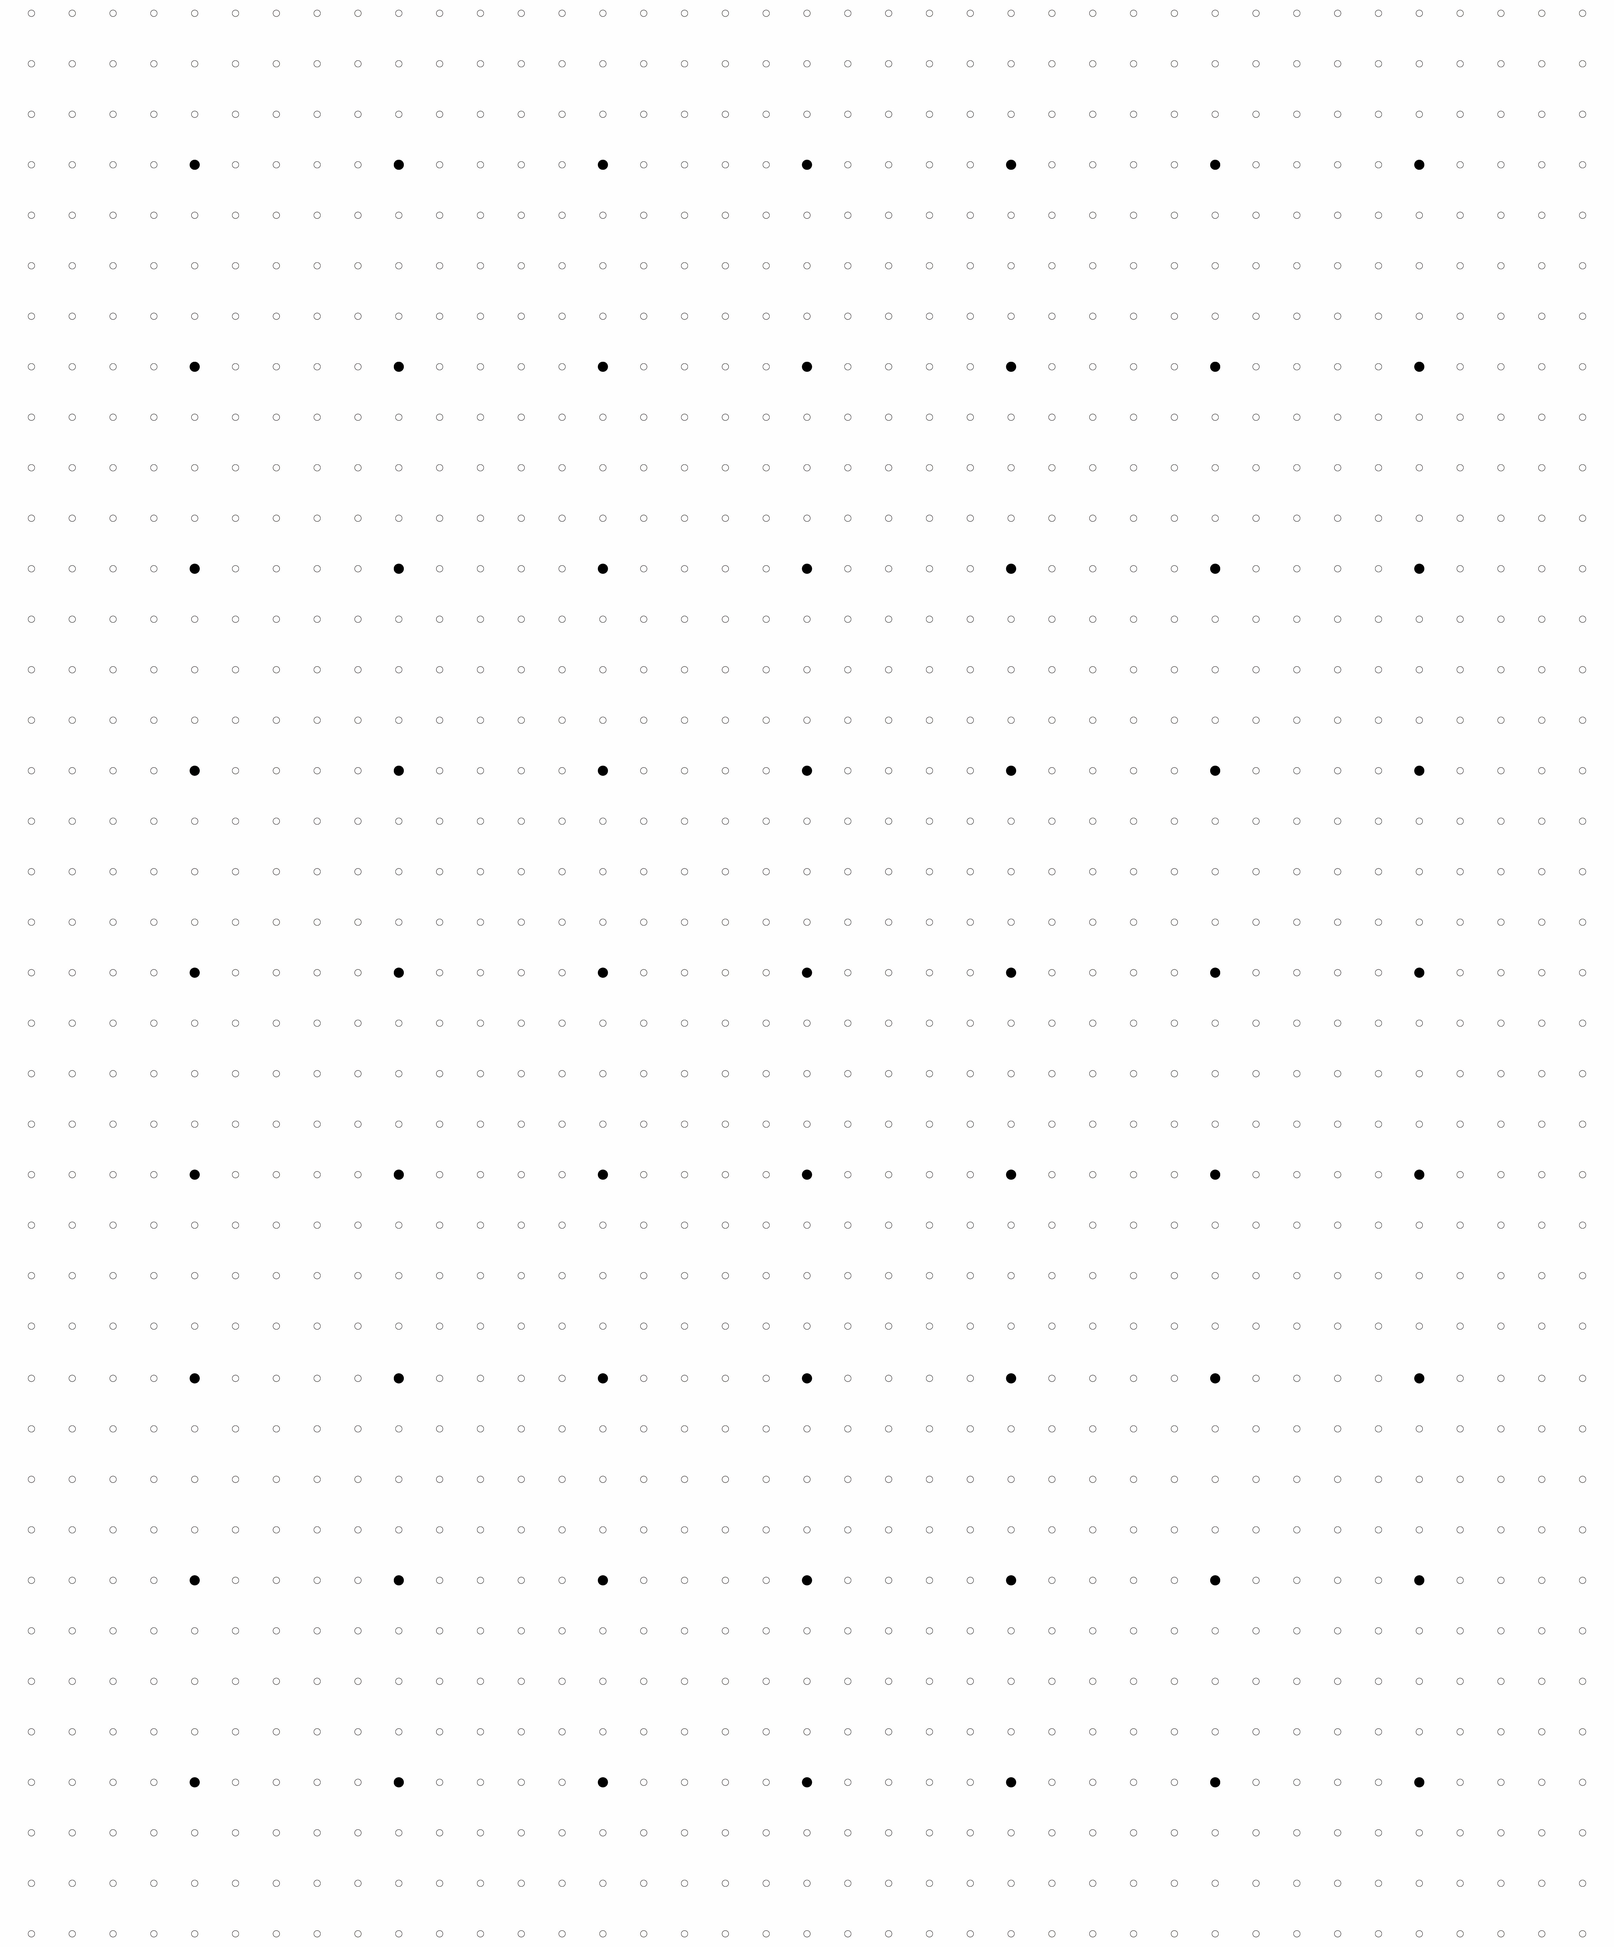
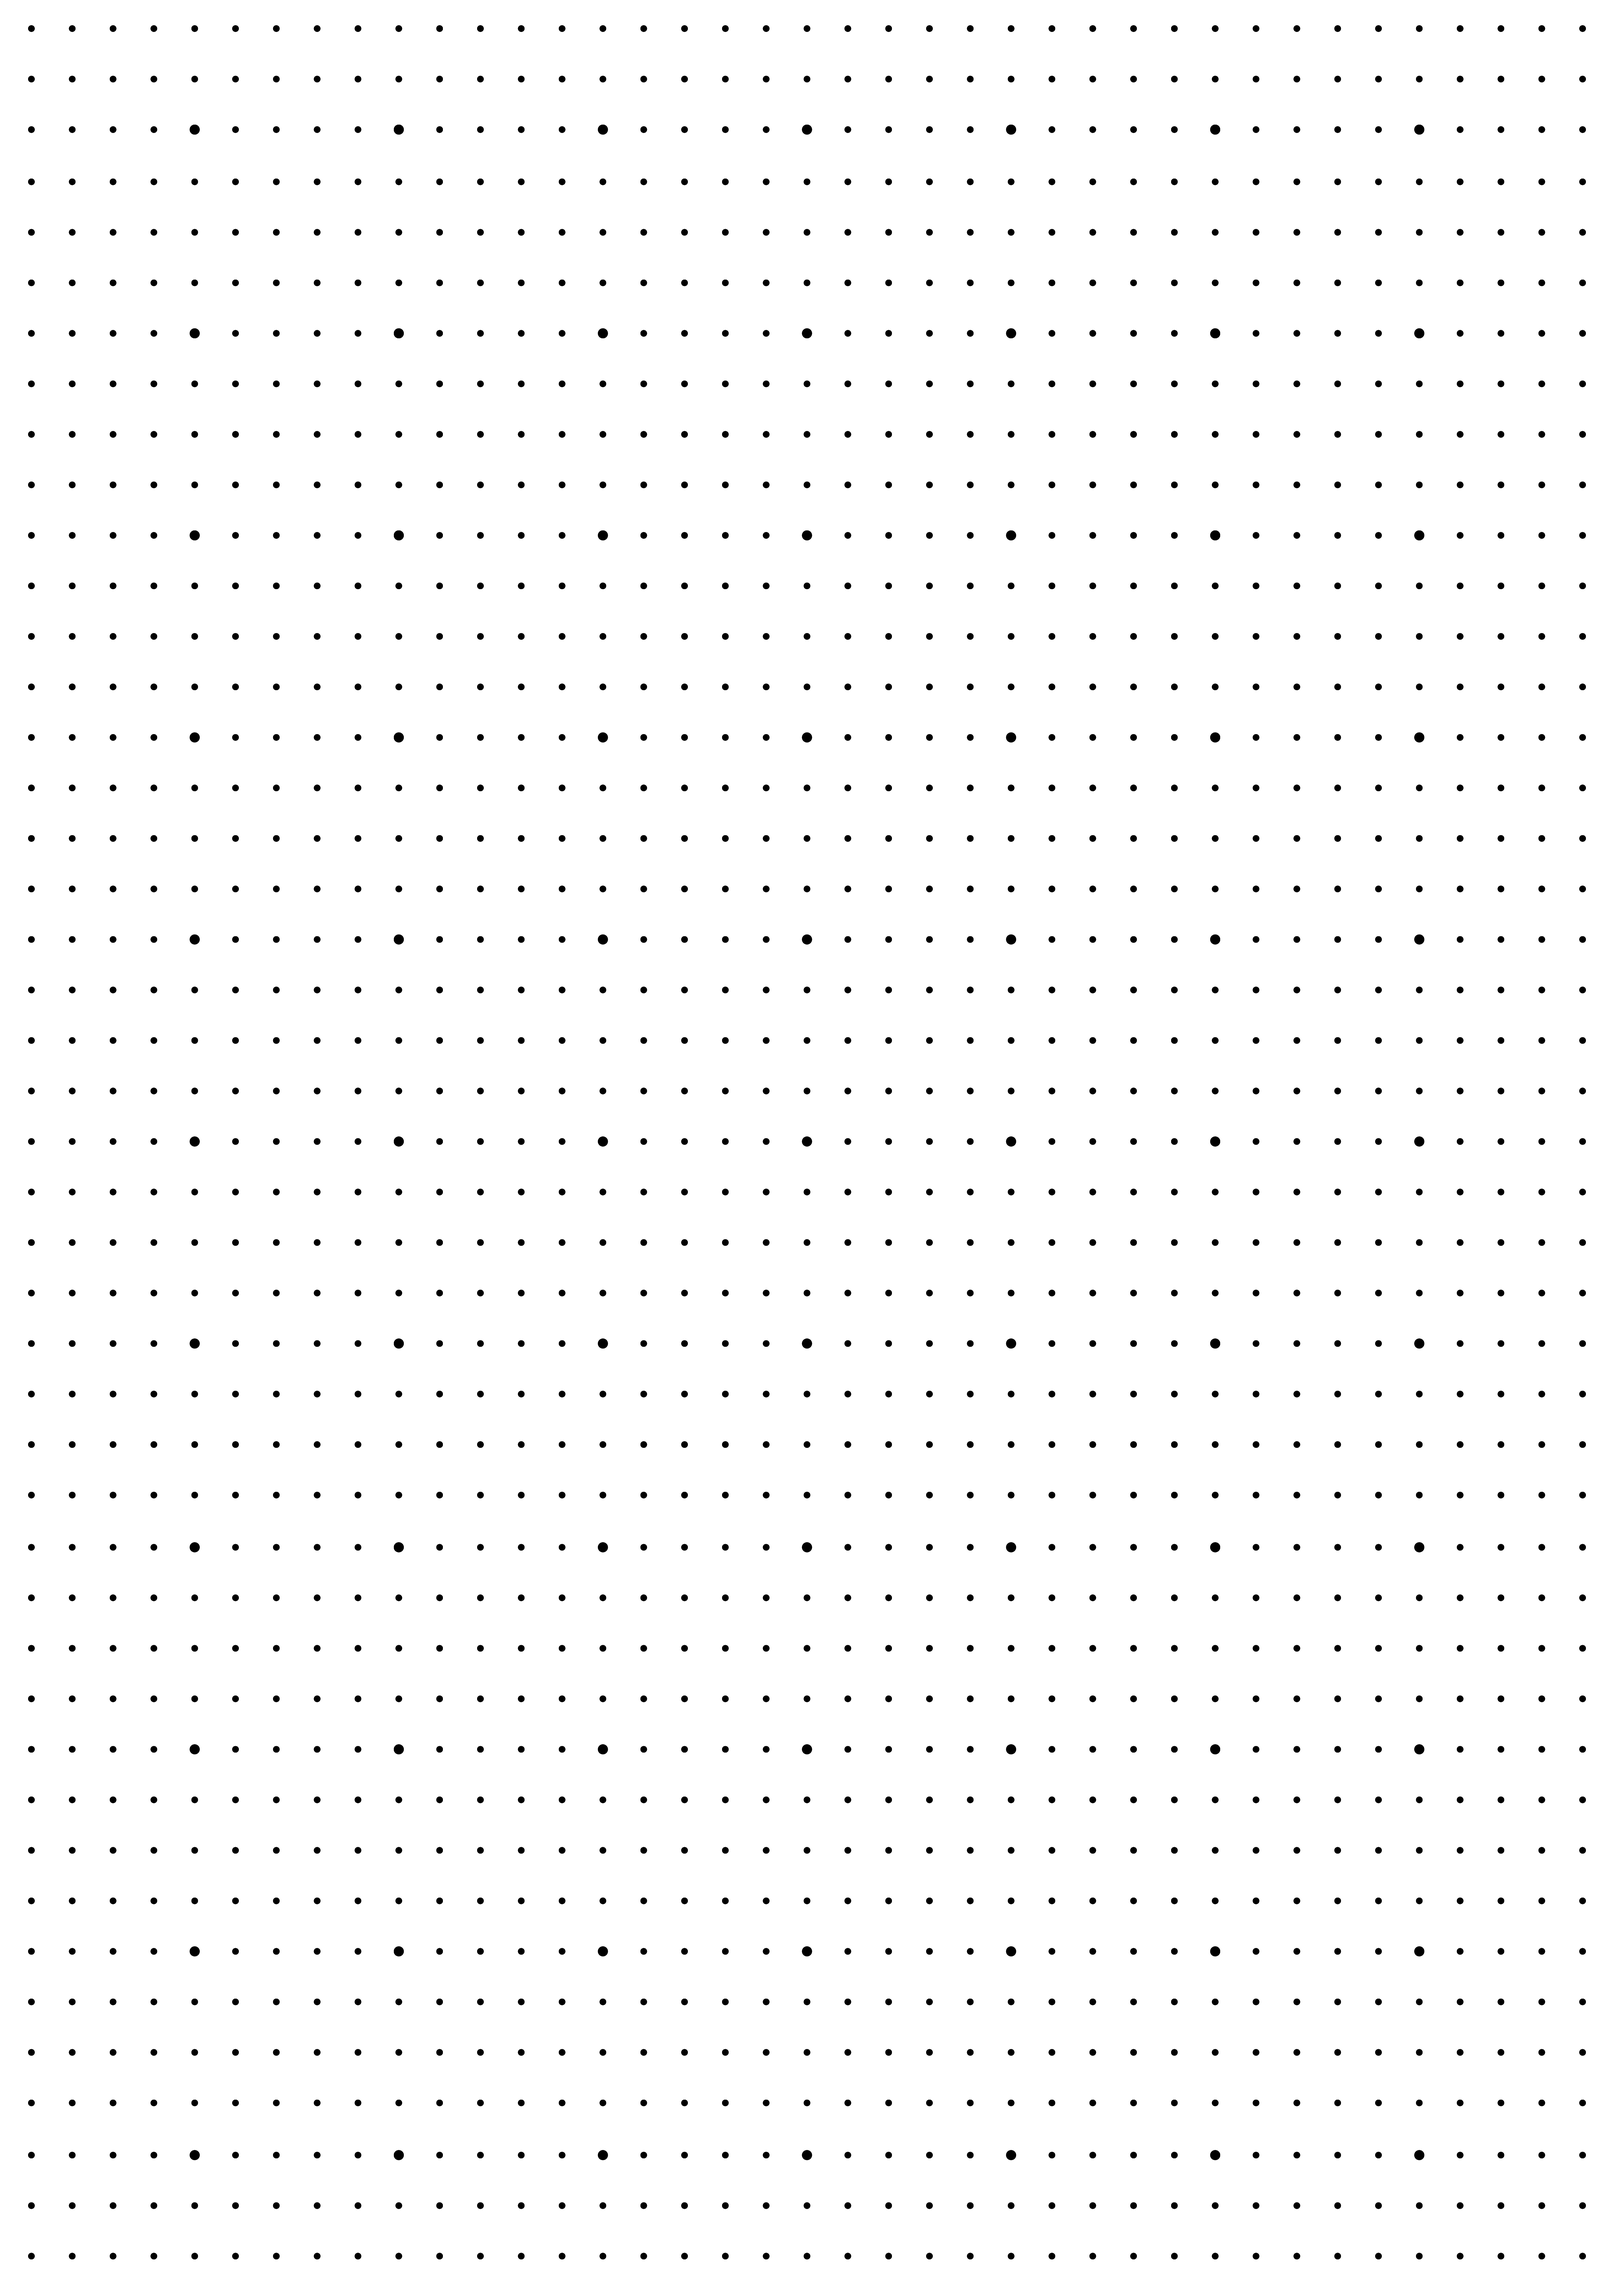
update

diff --git a/script.js b/script.js
@@ -4,7 +4,7 @@ const sceneConfigs = [
     id: 1,
     name: "Cosmetics",
     viewportBackground: 'images/backgrounds/background1.jpg',
-    outerBackground: '#ffffff',
+    outerBackground: '#fcfeff',
     products: [
       { 
         x: -8, y: 6, 
@@ -154,8 +154,8 @@ const sceneConfigs = [
   },{
     id: 2,
     name: "Construction",
-    viewportBackground: 'images/backgrounds/background1.jpg',
-    outerBackground: '#ffffff',
+    viewportBackground: 'images/backgrounds/background2.jpg',
+    outerBackground: '#fcfeff',
     products: [
       { 
         x: -8, y: 6, 
@@ -298,22 +298,22 @@ const sceneConfigs = [
   {
     id: 3,
     name: "Agriculture",
-    viewportBackground: 'images/backgrounds/background1.jpg',
-    outerBackground: '#ffffff',
+    viewportBackground: 'images/backgrounds/background3.jpg',
+    outerBackground: '#fcfeff',
     products: [
       { 
         x: -8, y: 6, 
         imageWidth: 500,
-        imageHeight: 1000,
-        scale: 1.2,
+        imageHeight: 500,
+        scale: 8,
         imageUrl: 'images/agriculture/balingtwine.png',
         maskUrl: 'images/agriculture/balingtwinemask.png'
       },
       { 
-        x: 0, y: 3, 
+        x: -12, y: 2, 
         imageWidth: 600,
-        imageHeight: 1000,
-        scale: 1.5,
+        imageHeight: 600,
+        scale: 8,
         imageUrl: 'images/agriculture/bloodmealpoultryfeed.png',
         maskUrl: 'images/agriculture/bloodmealpoultryfeedmask.png'
       },
@@ -328,8 +328,8 @@ const sceneConfigs = [
       { 
         x: -3, y: -1, 
         imageWidth: 600,
-        imageHeight: 500,
-        scale: 1.2,
+        imageHeight: 600,
+        scale: 15,
         imageUrl: 'images/agriculture/herbicide.png',
         maskUrl: 'images/agriculture/herbicidemask.png'
       },
@@ -337,74 +337,177 @@ const sceneConfigs = [
         x: 3, y: -2, 
         imageWidth: 800,
         imageHeight: 600,
-        scale: 1.4,
+        scale: 15,
         imageUrl: 'images/agriculture/hydroponicsgrowingmediabinder.png',
         maskUrl: 'images/agriculture/hydroponicsgrowingmediabindermask.png'
       },
       { 
-        x: -7, y: 4, 
+        x: 10, y: 4, 
         imageWidth: 400,
-        imageHeight: 800,
-        scale: 1.1,
+        imageHeight: 600,
+        scale: 3,
         imageUrl: 'images/agriculture/irrigationdriptape.png',
         maskUrl: 'images/agriculture/irrigationdriptapemask.png'
       },
       { 
-        x: -8, y: -2, 
+        x: 8, y: -4, 
         imageWidth: 800,
-        imageHeight: 1000,
-        scale: 1.3,
+        imageHeight: 800,
+        scale: 10,
         imageUrl: 'images/agriculture/minerallick.png',
         maskUrl: 'images/agriculture/minerallickmask.png'
       },
       { 
         x: 8, y: 1, 
         imageWidth: 400,
-        imageHeight: 650,
-        scale: 1.2,
+        imageHeight: 400,
+        scale: 12,
         imageUrl: 'images/agriculture/mulchfilm.png',
         maskUrl: 'images/agriculture/mulchfilmmask.png'
       },
       { 
         x: -3, y: 3, 
         imageWidth: 300,
-        imageHeight: 900,
-        scale: 1.1,
+        imageHeight: 350,
+        scale: 8,
         imageUrl: 'images/agriculture/organicbonemealfertilizer.png',
         maskUrl: 'images/agriculture/organicbonemealfertilizermask.png'
       },
       { 
         x: 3, y: 6, 
         imageWidth: 900,
-        imageHeight: 1000,
-        scale: 1.4,
+        imageHeight: 900,
+        scale: 9,
         imageUrl: 'images/agriculture/seedcoating.png',
         maskUrl: 'images/agriculture/seedcoatingmask.png'
       },
       { 
-        x: 6, y: 6, 
-        imageWidth: 300,
+        x: 0, y: -4, 
+        imageWidth: 600,
         imageHeight: 600,
-        scale: 1.1,
+        scale: 10,
         imageUrl: 'images/agriculture/treeguard.png',
         maskUrl: 'images/agriculture/treeguardmask.png'
       },
       { 
-        x: -2, y: 7, 
+        x: 13, y: 7, 
         imageWidth: 700,
-        imageHeight: 1000,
+        imageHeight: 700,
+        scale: 8,
+        imageUrl: 'images/agriculture/treewound.png',
+        maskUrl: 'images/agriculture/treewoundmask.png'
+      },
+    ]
+  },
+{
+    id: 4,
+    name: "Fuel",
+    viewportBackground: 'images/backgrounds/background4.jpg',
+    outerBackground: '#fffcfcd7',
+    products: [
+      { 
+        x: -8, y: 6, 
+        imageWidth: 500,
+        imageHeight: 500,
+        scale: 8,
+        imageUrl: 'images/agriculture/balingtwine.png',
+        maskUrl: 'images/agriculture/balingtwinemask.png'
+      },
+      { 
+        x: -12, y: 2, 
+        imageWidth: 600,
+        imageHeight: 600,
+        scale: 8,
+        imageUrl: 'images/agriculture/bloodmealpoultryfeed.png',
+        maskUrl: 'images/agriculture/bloodmealpoultryfeedmask.png'
+      },
+      { 
+        x: -5, y: 1, 
+        imageWidth: 800,
+        imageHeight: 700,
         scale: 1.3,
+        imageUrl: 'images/agriculture/greenhouseglazing.png',
+        maskUrl: 'images/agriculture/greenhouseglazingmask.png'
+      },
+      { 
+        x: -3, y: -1, 
+        imageWidth: 600,
+        imageHeight: 600,
+        scale: 15,
+        imageUrl: 'images/agriculture/herbicide.png',
+        maskUrl: 'images/agriculture/herbicidemask.png'
+      },
+      { 
+        x: 3, y: -2, 
+        imageWidth: 800,
+        imageHeight: 600,
+        scale: 15,
+        imageUrl: 'images/agriculture/hydroponicsgrowingmediabinder.png',
+        maskUrl: 'images/agriculture/hydroponicsgrowingmediabindermask.png'
+      },
+      { 
+        x: 10, y: 4, 
+        imageWidth: 400,
+        imageHeight: 600,
+        scale: 3,
+        imageUrl: 'images/agriculture/irrigationdriptape.png',
+        maskUrl: 'images/agriculture/irrigationdriptapemask.png'
+      },
+      { 
+        x: 8, y: -4, 
+        imageWidth: 800,
+        imageHeight: 800,
+        scale: 10,
+        imageUrl: 'images/agriculture/minerallick.png',
+        maskUrl: 'images/agriculture/minerallickmask.png'
+      },
+      { 
+        x: 8, y: 1, 
+        imageWidth: 400,
+        imageHeight: 400,
+        scale: 12,
+        imageUrl: 'images/agriculture/mulchfilm.png',
+        maskUrl: 'images/agriculture/mulchfilmmask.png'
+      },
+      { 
+        x: -3, y: 3, 
+        imageWidth: 300,
+        imageHeight: 350,
+        scale: 8,
+        imageUrl: 'images/agriculture/organicbonemealfertilizer.png',
+        maskUrl: 'images/agriculture/organicbonemealfertilizermask.png'
+      },
+      { 
+        x: 3, y: 6, 
+        imageWidth: 900,
+        imageHeight: 900,
+        scale: 9,
+        imageUrl: 'images/agriculture/seedcoating.png',
+        maskUrl: 'images/agriculture/seedcoatingmask.png'
+      },
+      { 
+        x: 0, y: -4, 
+        imageWidth: 600,
+        imageHeight: 600,
+        scale: 10,
+        imageUrl: 'images/agriculture/treeguard.png',
+        maskUrl: 'images/agriculture/treeguardmask.png'
+      },
+      { 
+        x: 13, y: 7, 
+        imageWidth: 700,
+        imageHeight: 700,
+        scale: 8,
         imageUrl: 'images/agriculture/treewound.png',
         maskUrl: 'images/agriculture/treewoundmask.png'
       },
     ]
   }
-
 ];
 
 // State management
 let scene, camera, renderer, ballMesh, ballBody;
-let currentSceneIndex = 0;
+let currentSceneIndex = 1;
 let scrollLocked = true;
 let ballTouchedBottom = false;
 let lastScrollTime = 0;
@@ -465,7 +568,7 @@ renderer.domElement.addEventListener('mouseleave', onMouseUp);
   initProgressMap();
 
   // Load first scene
-  loadScene(0);
+  loadScene(2);
 
   // Start animation loop
   animate();

diff --git a/style.css b/style.css
@@ -151,9 +151,6 @@ font-style: normal;
     width: 100%;
   }
 
-  .nav-hint {
-    text-align: left;
-  }
 }
 
 @media (max-width: 768px) {
